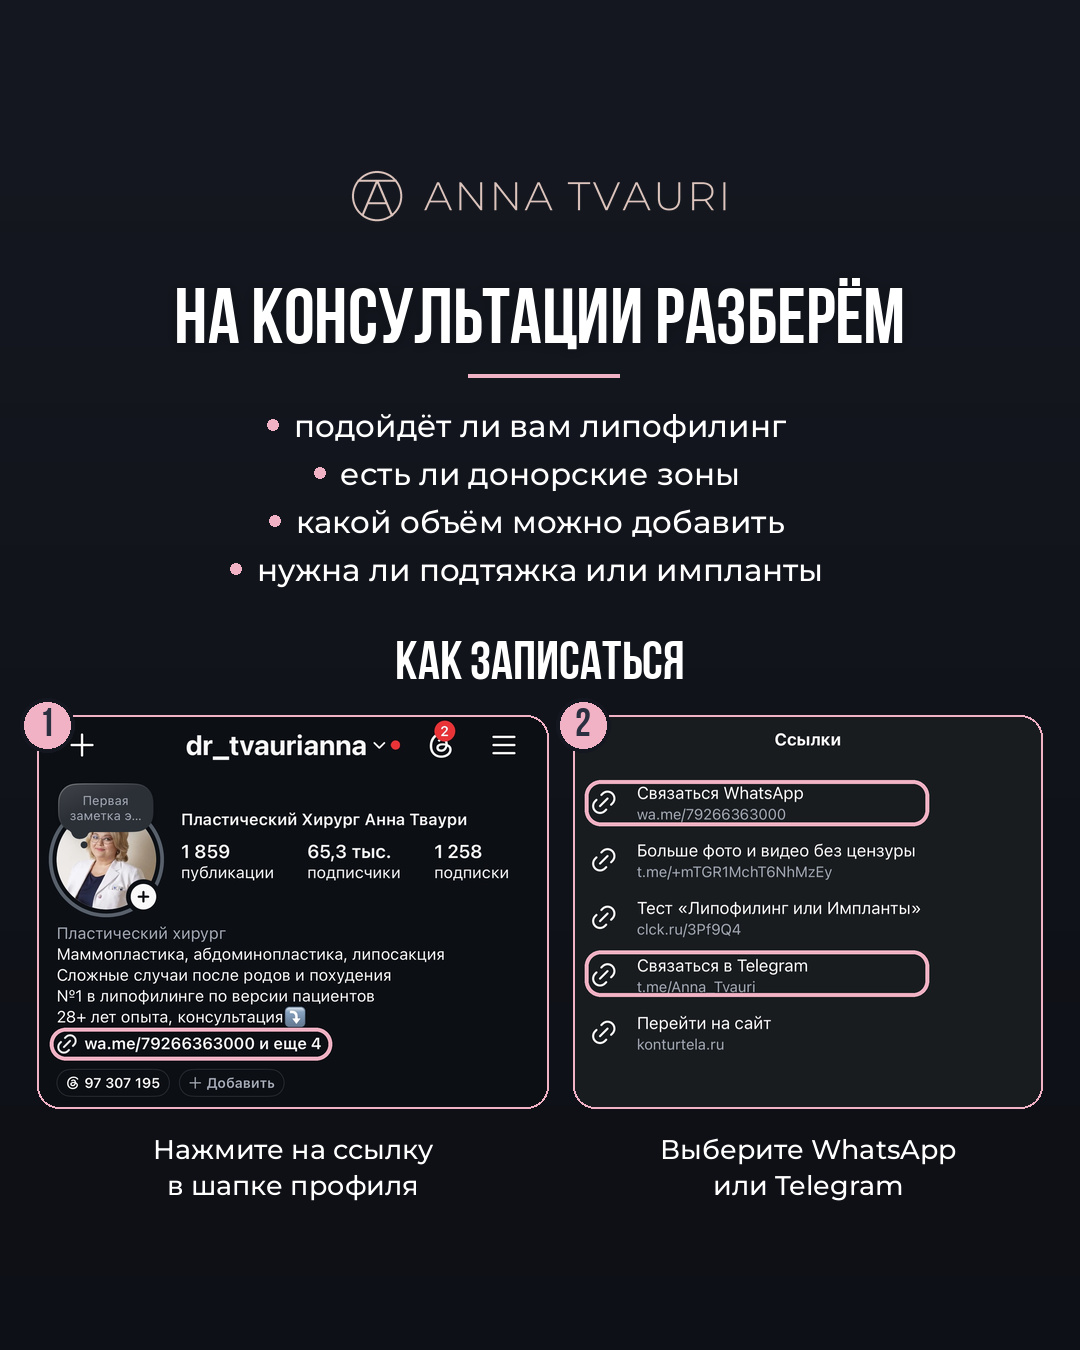
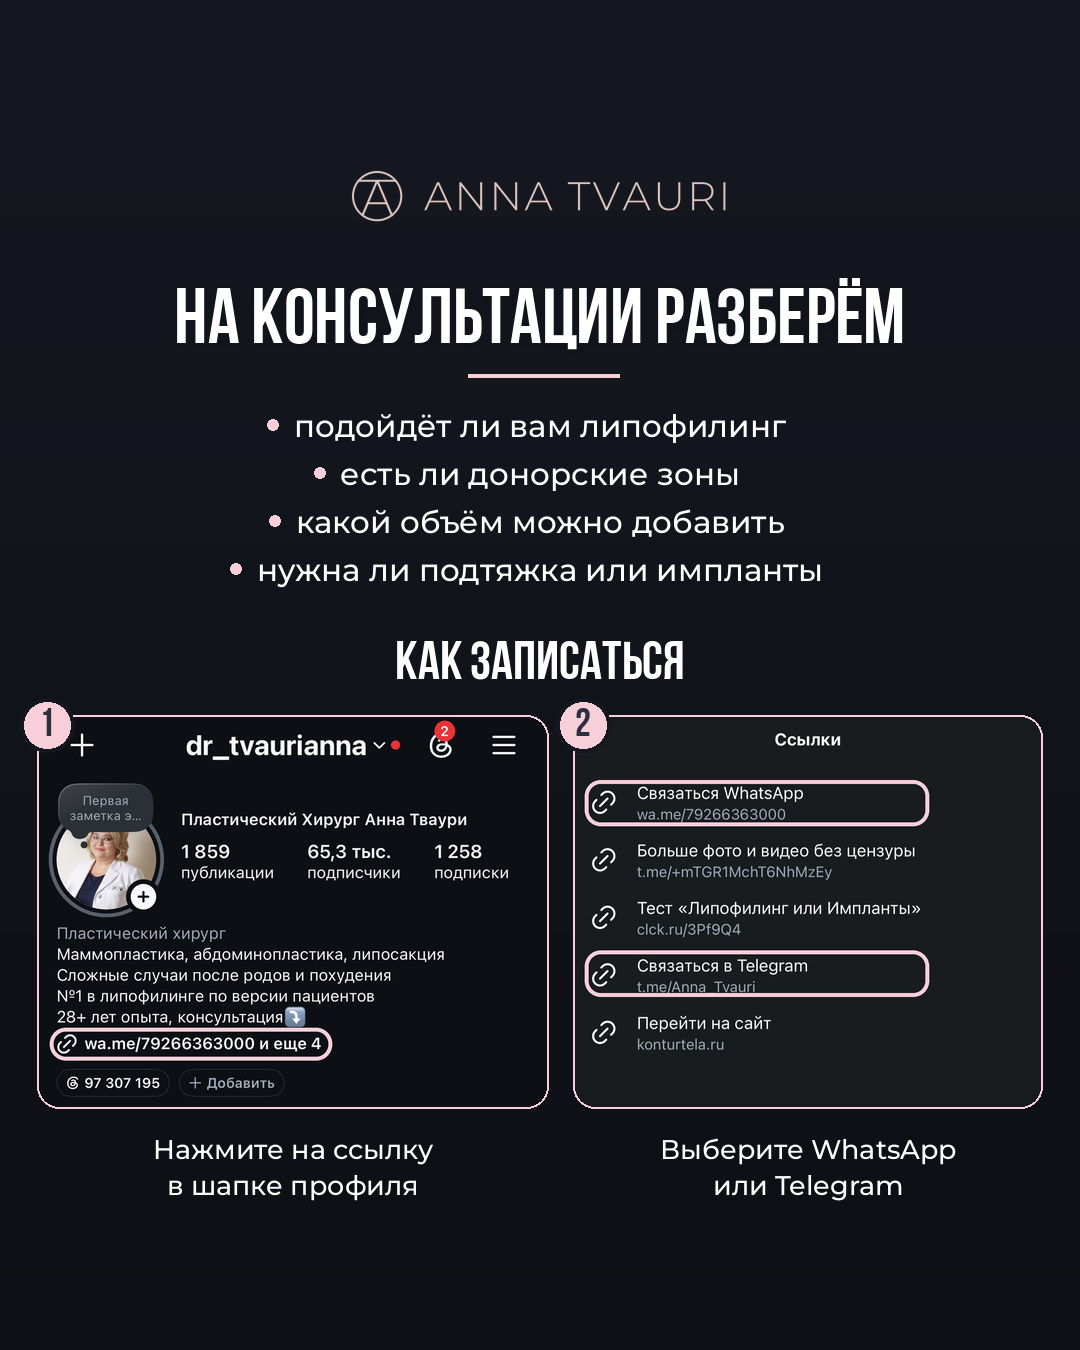
Lipofilling carousel: softer pastel pink accents on slides 8 and 9
Claude-Session: https://claude.ai/code/session_01XB7jWmRDxB52StXcRzXaWE

diff --git a/tools/carousel_lipofilling.py b/tools/carousel_lipofilling.py
@@ -149,7 +149,7 @@ def cut(name, a, b, mode="crop", top=None, bot=None):
 
 
 ASSETS = os.path.join(os.path.dirname(os.path.dirname(os.path.abspath(__file__))), "carousel_lipofilling", "src")
-LILAC_D = (240, 178, 196)  # soft pastel pink: bullets, highlight frames, step badges
+LILAC_D = (247, 207, 217)  # soft pastel pink: bullets, highlight frames, step badges
 
 
 def before_badge(path, cx, cy, r=165):
